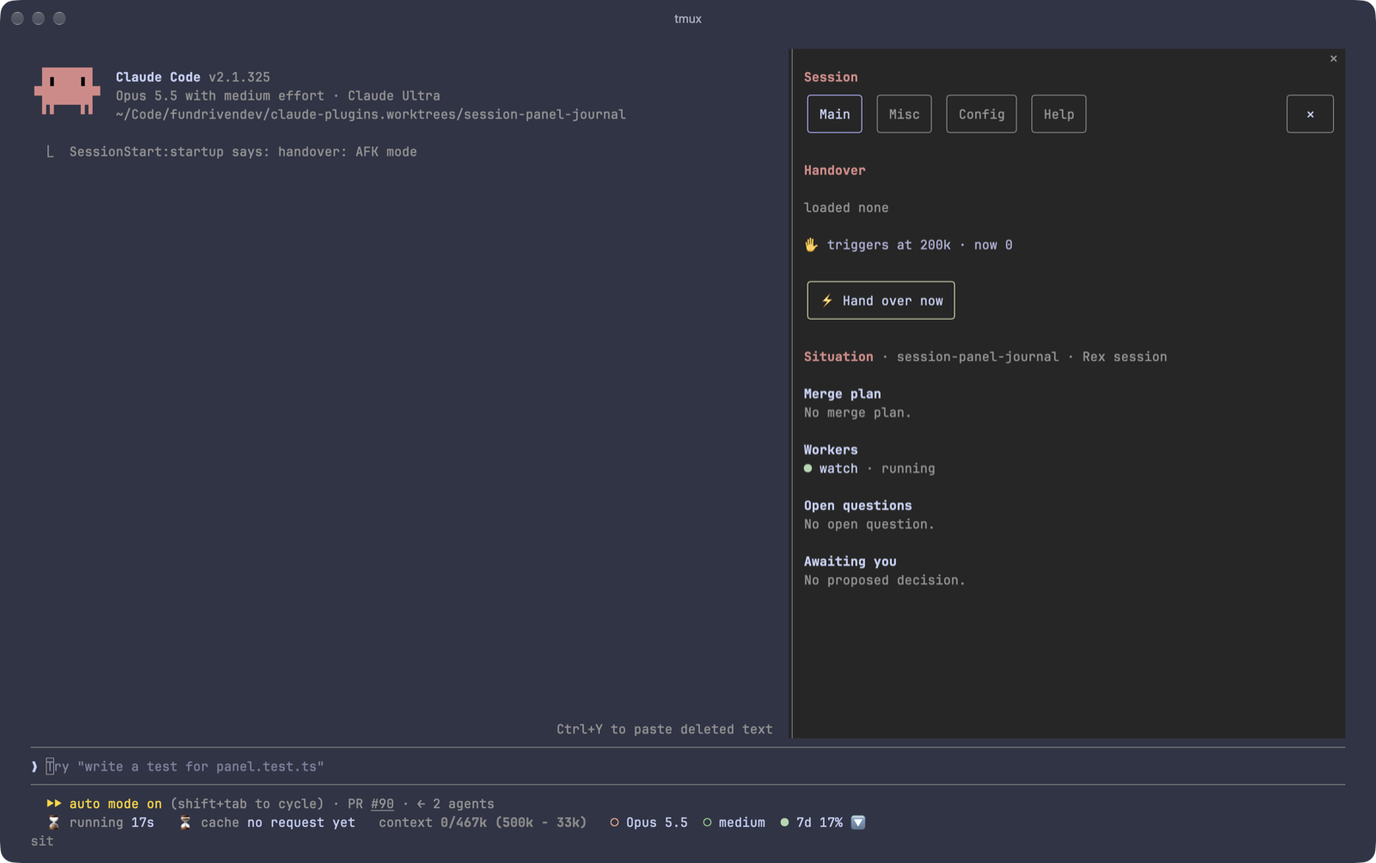
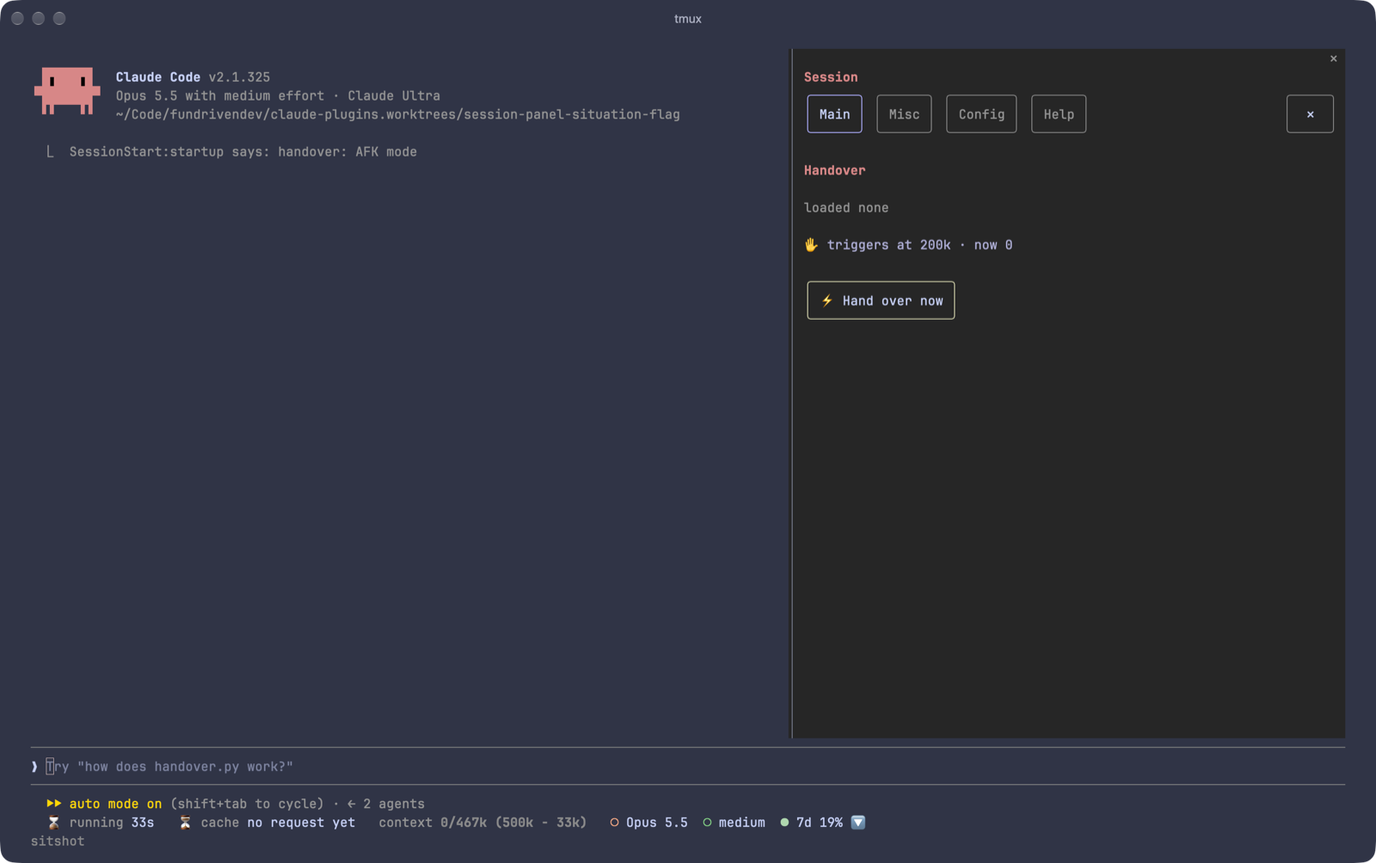
session-mods 0.7.0: Situation is opt-in, and the pane names no terminal (#91)
session-mods 0.7.0: the Situation section on Main becomes opt-in, and
the pane no longer names Rex.

- New boolean `userConfig` option `situation`, default `false`. Off:
Main shows Handover alone, no Situation refresh runs (no notes,
terminal-session or `gh` reads for it), and the Help tab leaves
Situation out. On: the section works as in 0.6.0.
- The Config tab lists the option as in effect (`off (default)` / `on`)
under a new `session-mods plugin` heading.
- The pane's strings use neutral words: `· terminal session`, `no
terminal session labelled …`, `not in a terminal session`, `terminal
sessions unreachable`, the Help rows. The code still calls the `rex` CLI
to read workers.
- README, `docs/main-tab.md`, `docs/top-bar.md` and
`docs/configuration.md` describe Situation as opt-in and how to turn it
on; the screenshot shows Main as it opens by default.
- Tests cover both states.

Open questions: none
Decisions: session-panel-journal D06, D07 (new)

🤖 Generated with [Claude Code](https://claude.com/claude-code)

---------

diff --git a/plugins/session-mods/hooks/register.tsx b/plugins/session-mods/hooks/register.tsx
@@ -433,7 +433,11 @@ async function rexSession($: EngineInterface, id: string): Promise<RexSession | 
 /** The latest refreshSituation call: an older one that finishes after it drops its result. */
 let situationRun = 0
 
+/** The `situation` option: off (its default), the section is neither drawn nor read. Set by `register`. */
+let situationOn = false
+
 async function refreshSituation($: EngineInterface) {
+  if (!situationOn) return
   const run = ++situationRun
   const rexId = await $.env.get('REX_SESSION')
   const ownBlock = await $.env.get('REX_BLOCK')
@@ -460,10 +464,10 @@ async function refreshSituation($: EngineInterface) {
   if (!rex && rexId !== undefined) {
     const all = await $.process.run(['rex', 'ls', '--json'])
     const id = all.exitCode === 0 ? rexSessionLabelled(all.stdout, topic) : null
-    if (all.exitCode !== 0) workersError = 'rex unreachable'
+    if (all.exitCode !== 0) workersError = 'terminal sessions unreachable'
     else if (id) rex = await rexSession($, id)
   }
-  if (rexId === undefined && !rex) workersError = 'not in a Rex session'
+  if (rexId === undefined && !rex) workersError = 'not in a terminal session'
   const shown = rex
   const workers = shown
     ? await Promise.all(
@@ -482,6 +486,7 @@ async function refreshSituation($: EngineInterface) {
 
 /** Reads each merge-plan pull request's state and checks from GitHub. */
 async function refreshSituationPrs($: EngineInterface) {
+  if (!situationOn) return
   const urlsOf = (sit: Situation) => [...new Set(sit.mergePlan?.rows.flatMap(r => r.prs.map(p => p.url)) ?? [])]
   const urls = urlsOf(await read($, situation))
   if (!urls.length) {
@@ -504,6 +509,7 @@ async function refreshSituationPrs($: EngineInterface) {
 
 /** Notes the last notes document a call read or wrote; a new one is read at once while the session has no topic. */
 async function noteNotes($: EngineInterface, tool: string, input: Record<string, unknown>) {
+  if (!situationOn) return
   const named = ['Read', 'Edit', 'MultiEdit', 'Write'].includes(tool) ? input.file_path : tool === 'Bash' ? input.command : null
   const path = typeof named === 'string' ? notesPathsIn(named).at(-1) : undefined
   if (!path || path === (await read($, lastNote))) return
@@ -713,6 +719,7 @@ export async function* stepPanel($: StepArgs[0], e: StepArgs[1], next: StepArgs[
 }
 
 export const register: Register = (on, options) => {
+  situationOn = options.situation === true
   {
 
     on('command.run', { command: 'session-panel' }, async $ => {
@@ -1187,7 +1194,7 @@ export const register: Register = (on, options) => {
             <Box key="sit" flexDirection="column">
               {section('Situation')}
               <Text dimColor wrap="wrap">
-                {sit.readAt === null ? 'Not read yet.' : 'No topic: the Rex session is not labelled by a topic, and no notes document read or written names one.'}
+                {sit.readAt === null ? 'Not read yet.' : "No topic: the terminal session's label names none, and no notes document read or written names one."}
               </Text>
             </Box>
           )
@@ -1226,14 +1233,14 @@ export const register: Register = (on, options) => {
             <Text dimColor wrap="truncate-end"> · {WORKER_LOOK[w.state].word}{w.last ? ` · ${w.last}` : ''}</Text>
           </Box>
         ))
-        const workersEmpty = sit.workersError ?? (sit.workers === null ? `no Rex session labelled ${sit.topic}` : 'no other tab in the topic\'s Rex session')
+        const workersEmpty = sit.workersError ?? (sit.workers === null ? `no terminal session labelled ${sit.topic}` : "no other tab in the topic's terminal session")
         return (
           <Box key="sit" flexDirection="column">
             <Box flexDirection="row">
               {section('Situation')}
               <Text dimColor wrap="truncate-end">
                 {' '}
-                · {sit.topic} · {sit.from === 'rex' ? 'Rex session' : 'notes'}
+                · {sit.topic} · {sit.from === 'rex' ? 'terminal session' : 'notes'}
               </Text>
             </Box>
             {sitBlock('plan', sitHeading('Merge plan', planHint), planRows, plan ? 'The merge plan holds no row.' : 'No merge plan.')}
@@ -1271,7 +1278,7 @@ export const register: Register = (on, options) => {
             {handoverRows}
           </Box>
 
-          {situationSection()}
+          {situationOn && situationSection()}
         </Box>
       )
 
@@ -1516,41 +1523,43 @@ export const register: Register = (on, options) => {
                   : 'The same, but leaves the prompt in the input for you to change before sending; alone when the reply gave no prompt.',
               ),
             )}
-            {helpRow('situation', section('Situation'), "The live state of the session's topic, in every session of it and after a handover: the Rex session's label when a note names it as its topic, else the topic of the last notes document the session read or wrote. Read again every 30 s.")}
-            {helpRow(
-              'sit:plan',
-              <Box flexDirection="column">
-                <Text bold>Merge plan</Text>
+            {situationOn && [
+              helpRow('situation', section('Situation'), "The live state of the session's topic, in every session of it and after a handover: the terminal session's label when a note names it as its topic, else the topic of the last notes document the session read or wrote. Read again every 30 s."),
+              helpRow(
+                'sit:plan',
+                <Box flexDirection="column">
+                  <Text bold>Merge plan</Text>
+                  <Text>
+                    <Text dimColor>2  </Text>🔧 <Text color={PR_COLOR.draft} underline>claude-plugins#90</Text>
+                    <Text color="#e78284">!</Text>
+                    <Text dimColor> worker running</Text>
+                  </Text>
+                </Box>,
+                "The topic's merge plan (its *-merge-plan.md), one row per line: wave, status, pull requests in their live state's colour with ! on a red check (GitHub, every minute), note. Its age turns yellow past an hour.",
+              ),
+              helpRow(
+                'sit:workers',
                 <Text>
-                  <Text dimColor>2  </Text>🔧 <Text color={PR_COLOR.draft} underline>claude-plugins#90</Text>
-                  <Text color="#e78284">!</Text>
-                  <Text dimColor> worker running</Text>
-                </Text>
-              </Box>,
-              "The topic's merge plan (its *-merge-plan.md), one row per line: wave, status, pull requests in their live state's colour with ! on a red check (GitHub, every minute), note. Its age turns yellow past an hour.",
-            )}
-            {helpRow(
-              'sit:workers',
-              <Text>
-                <Text color={WORKER_LOOK.running.color}>{WORKER_LOOK.running.glyph} </Text>
-                review · claude-plugins#90<Text dimColor> · running · Reading the diff</Text>
-              </Text>,
-              "The other tabs of the topic's Rex session: ● running, ◆ waiting for you, ○ idle, ✓ done or ✗ blocked on its AFK line, › a shell; then the last thing it said.",
-            )}
-            {helpRow(
-              'sit:questions',
-              <Text>
-                <Text color="#e5c890">Q1</Text> Lock mode in mise.toml?
-              </Text>,
-              "The topic's open-questions plans still todo or doing, one line per question not yet decided.",
-            )}
-            {helpRow(
-              'sit:proposed',
-              <Text>
-                <Text color="#ca9ee6">D02</Text> Pin the lock in CI
-              </Text>,
-              "Awaiting you: the topic's decision register's entries still proposed, with a link to the register.",
-            )}
+                  <Text color={WORKER_LOOK.running.color}>{WORKER_LOOK.running.glyph} </Text>
+                  review · claude-plugins#90<Text dimColor> · running · Reading the diff</Text>
+                </Text>,
+                "The other tabs of the topic's terminal session: ● running, ◆ waiting for you, ○ idle, ✓ done or ✗ blocked on its AFK line, › a shell; then the last thing it said.",
+              ),
+              helpRow(
+                'sit:questions',
+                <Text>
+                  <Text color="#e5c890">Q1</Text> Lock mode in mise.toml?
+                </Text>,
+                "The topic's open-questions plans still todo or doing, one line per question not yet decided.",
+              ),
+              helpRow(
+                'sit:proposed',
+                <Text>
+                  <Text color="#ca9ee6">D02</Text> Pin the lock in CI
+                </Text>,
+                "Awaiting you: the topic's decision register's entries still proposed, with a link to the register.",
+              ),
+            ]}
           </Box>
 
           {section('Misc')}
@@ -1756,6 +1765,10 @@ export const register: Register = (on, options) => {
           {thresholdRow('suggest', 'suggest_tokens', ho?.thresholds?.suggest, ho?.pending?.suggest, 'Context size from which a handover is suggested at the next boundary.')}
           {thresholdRow('warn', 'thresholds.warn_at_tokens', ho?.thresholds?.warnAt, undefined, 'Context size at which the Handover line turns yellow, computed by the handover plugin.')}
           {thresholdRow('trigger', 'trigger_tokens', ho?.thresholds?.trigger, ho?.pending?.trigger, 'Context size at which the session winds down and hands over; 0 turns it off.')}
+
+          {section('session-mods plugin')}
+          {whereSet('Its options: pluginConfigs["session-mods@fundrivendev"].options in settings.json, or /config.')}
+          {configRow('situation', 'situation', situationOn ? 'on' : null, 'off', "Shows the Situation section on Main, read from the topic's notes, its terminal session's tabs and GitHub.")}
         </Box>
       )
 

diff --git a/plugins/session-mods/tests/panel.test.ts b/plugins/session-mods/tests/panel.test.ts
@@ -568,11 +568,21 @@ test('the Help tab explains each item beside an example of it, in place of the r
   expect(await ui.find({ text: /Hand over now/ })).toBeDefined()
   expect(await ui.find({ text: /● pushed, ○ local only/ })).toBeDefined()
   expect(await ui.find({ text: /Last prompt/ })).toBeDefined()
-  for (const title of [/^Documents$/, /^Handover$/, /^Situation$/]) expect(await ui.find({ text: title })).toBeDefined()
-  expect(await ui.find({ text: /other tabs of the topic's Rex session/ })).toBeDefined()
+  for (const title of [/^Documents$/, /^Handover$/]) expect(await ui.find({ text: title })).toBeDefined()
+  for (const gone of [/^Situation$/, /^Merge plan$/, /other tabs of the topic/]) expect(await ui.find({ text: gone })).toBeUndefined()
   expect(await ui.find({ key: 'prompts' })).toBeUndefined()
   await ui.press({ key: 'tab:misc' })
   expect((await ui.find({ key: 'prompts' }))?.props.label).toBe('(no previous prompt)')
+  await ui.unmount()
+})
+
+test('with the situation option on, the Help tab explains Situation too', { options: { situation: true } }, async ($, on) => {
+  mock.clock(on, { now: 1_000 })
+  on('session.usage', () => ({ value: { startedAt: 0, context: {} as never, rateLimits: [] } }))
+  const ui = await $.ui.mount({ plugin: 'session-mods', surface: 'terminal', ...PANE })
+  await ui.press({ key: 'tab:help' })
+  expect(await ui.find({ text: /^Situation$/ })).toBeDefined()
+  expect(await ui.find({ text: /other tabs of the topic's terminal session/ })).toBeDefined()
   await ui.unmount()
 })
 
@@ -609,7 +619,28 @@ describe('Situation', () => {
     on('process.run', ($, e) => (run(e.argv) ?? ok('')) as never)
   }
 
-  test('Main shows Handover then the Situation of the Rex session\'s topic, filled; the rest sits on Misc', async ($, on) => {
+  const ON = { options: { situation: true } }
+
+  test('off by default, Main shows Handover alone, nothing is read for Situation, and Config lists the option off', async ($, on) => {
+    const ran: string[] = []
+    start(on, { REX_SESSION: 'session:1', REX_BLOCK: 'block:me' }, argv => {
+      ran.push(argv.join(' '))
+      return undefined
+    })
+    await $.session.start({ cwd: '/repo', surface: 'terminal', isInteractive: true })
+    await $.tool.call({ tool: 'Read', file_path: '/Users/me/Notes/claude/plans/26-11-16-spj-brief.md' } as never)
+    await settle()
+    expect(ran.filter(c => /^(rex|gh) /.test(c) || c.includes('decisions-register') || c.includes('head -20 "$1"'))).toEqual([])
+    const ui = await $.ui.mount({ plugin: 'session-mods', surface: 'terminal', ...PANE })
+    expect(await ui.find({ text: /^Handover$/ })).toBeDefined()
+    for (const gone of [/^Situation$/, /^No topic: /, /^Not read yet\.$/]) expect(await ui.find({ text: gone })).toBeUndefined()
+    await ui.press({ key: 'tab:config' })
+    expect(await ui.find({ text: /^situation$/ })).toBeDefined()
+    expect(await ui.find({ text: /^off \(default\)$/ })).toBeDefined()
+    await ui.unmount()
+  })
+
+  test('Main shows Handover then the Situation of the terminal session\'s topic, filled; the rest sits on Misc', ON, async ($, on) => {
     start(on, { REX_SESSION: 'session:1', REX_BLOCK: 'block:me' }, argv => {
       if (argv[0] === 'rex' && argv[1] === 'window') return ok(REX)
       if (argv[0] === 'rex' && argv[1] === 'capture') return argv.includes('block:w') ? ok('⏺ Reading the diff.\n❯ \n  esc to interrupt\n') : fail
@@ -622,7 +653,7 @@ describe('Situation', () => {
     const ui = await $.ui.mount({ plugin: 'session-mods', surface: 'terminal', ...PANE })
     expect(await ui.find({ text: /^Handover$/ })).toBeDefined()
     expect(await ui.find({ text: /^Situation$/ })).toBeDefined()
-    expect(await ui.find({ text: /spj · Rex session/ })).toBeDefined()
+    expect(await ui.find({ text: /spj · terminal session/ })).toBeDefined()
     const pr = await ui.find({ type: 'Link', text: /claude-plugins#90/ })
     expect(pr?.props.href).toBe('https://github.com/FunDrivenDev/claude-plugins/pull/90')
     expect(JSON.stringify(await ui.find({ type: 'Text', text: /^claude-plugins#90$/ }))).toContain('#babbf1')
@@ -637,10 +668,12 @@ describe('Situation', () => {
     await ui.press({ key: 'tab:misc' })
     for (const moved of [/no issue/, /no repository yet/, /^Documents$/, /^Last prompt/, /^Steps/, /^Git diff$/]) expect(await ui.find({ text: moved })).toBeDefined()
     expect(await ui.find({ text: /^Situation$/ })).toBeUndefined()
+    await ui.press({ key: 'tab:config' })
+    expect(await ui.find({ text: /^on$/ })).toBeDefined()
     await ui.unmount()
   })
 
-  test('without a topic the section says so', async ($, on) => {
+  test('without a topic the section says so', ON, async ($, on) => {
     start(on, {}, () => undefined)
     await $.session.start({ cwd: '/repo', surface: 'terminal', isInteractive: true })
     await settle()
@@ -649,7 +682,7 @@ describe('Situation', () => {
     await ui.unmount()
   })
 
-  test('a Rex label no note names gives no topic, until the session reads a note that names one; Rex and gh down show as such', async ($, on) => {
+  test('a terminal session label no note names gives no topic, until the session reads a note that names one; its CLI and gh down show as such', ON, async ($, on) => {
     start(on, { REX_SESSION: 'session:1', REX_BLOCK: 'block:me' }, argv => {
       if (argv[0] === 'rex' && argv[1] === 'window') return ok(REX.replace('"label":"spj"', '"label":"Dispatch"'))
       if (argv[0] === 'rex' && argv[1] === 'ls') return fail
@@ -669,13 +702,13 @@ describe('Situation', () => {
     ui = await $.ui.mount({ plugin: 'session-mods', surface: 'terminal', ...PANE })
     expect(await ui.find({ text: /spj · notes/ })).toBeDefined()
     expect(await ui.find({ text: /gh unreachable/ })).toBeDefined()
-    expect(await ui.find({ text: /^rex unreachable$/ })).toBeDefined()
+    expect(await ui.find({ text: /^terminal sessions unreachable$/ })).toBeDefined()
     expect(await ui.find({ text: /^No open question\.$/ })).toBeDefined()
     expect(await ui.find({ text: /^No proposed decision\.$/ })).toBeDefined()
     await ui.unmount()
   })
 
-  test('outside Rex, a topic from the notes has no workers and no merge plan to show', async ($, on) => {
+  test('outside a terminal session, a topic from the notes has no workers and no merge plan to show', ON, async ($, on) => {
     start(on, {}, argv => {
       if (argv[0] === 'sh' && argv[2]?.includes('decisions-register')) return ok('\x1e/n/plans/26-11-16-spj-brief.md\t1000\n---\ntopic: spj\n---\n')
       if (argv[0] === 'sh' && argv[2]?.includes('head -20 "$1"')) return ok('---\ntopic: spj\n---\n')
@@ -687,7 +720,7 @@ describe('Situation', () => {
     const ui = await $.ui.mount({ plugin: 'session-mods', surface: 'terminal', ...PANE })
     expect(await ui.find({ text: /spj · notes/ })).toBeDefined()
     expect(await ui.find({ text: /^No merge plan\.$/ })).toBeDefined()
-    expect(await ui.find({ text: /^not in a Rex session$/ })).toBeDefined()
+    expect(await ui.find({ text: /^not in a terminal session$/ })).toBeDefined()
     await ui.unmount()
   })
 })

diff --git a/plugins/session-mods/docs/main-tab.md b/plugins/session-mods/docs/main-tab.md
@@ -1,6 +1,6 @@
 # Main tab
 
-The topic at a glance: Handover, then Situation. [Back to the README](../README.md)
+The topic at a glance: Handover, then Situation when the `situation` option is on. [Back to the README](../README.md)
 
 ## Handover
 
@@ -21,10 +21,12 @@ When the handover does not load within its 3-minute wait, the message stays in t
 
 ## Situation
 
-The live state of the session's topic, the same in every session of it and after a handover, read again every 30 seconds without a prompt. Its title line names the topic and where it came from (`· session-panel-journal · Rex session`).
+An opt-in section, off by default: set the `situation` option to turn it on ([Configuration](configuration.md#situation)). Off, Main shows Handover alone, and the Help tab leaves Situation out.
+
+The live state of the session's topic, the same in every session of it and after a handover, read again every 30 seconds without a prompt. Its title line names the topic and where it came from (`· session-panel-journal · terminal session`).
 
 ```
-Situation · session-panel-journal · Rex session
+Situation · session-panel-journal · terminal session
 
 Merge plan · file · changed 12 min ago
 1  ✅ claude-plugins#89 base merged
@@ -43,16 +45,16 @@ D02 Pin the lock in CI
 
 The topic is a notes `topic:` slug (the front matter of the plans and registers in `~/Notes/claude`):
 
-1. the Rex session's label, when a plan or a register names it as its topic (a dispatched or watched session is labelled by its topic);
+1. the terminal session's label, when a plan or a register names it as its topic (a dispatched or watched session is labelled by its topic);
 2. else the `topic:` of the last notes document the session read or wrote (a brief, a plan, a register, a handover), read again as soon as it changes.
 
-A handover chain keeps it: the next session runs in the same Rex tab, or reads the handover and the brief. Without a topic, the section says so in one dim line.
+A handover chain keeps it: the next session runs in the same terminal tab, or reads the handover and the brief. Without a topic, the section says so in one dim line.
 
 Four blocks follow, each with one dim line when it has nothing to show:
 
 - **Merge plan**: the topic's latest `*-merge-plan.md` in `~/Notes/claude/plans`, one row per line of its `| Wave | PR | Status | Note |` table: wave, status, each pull request linked in its live state's colour (as in [Git](misc-tab.md#git)) with `!` on a red check, then the note. The heading links the file and gives its age, yellow past an hour. Pull requests are read with `gh` every minute; `gh unreachable` replaces their colours when none answers.
-- **Workers**: the other tabs of the Rex session labelled by the topic (this one, or another found with `rex ls`), each with its state read from its screen (`rex capture`): `●` running, `◆` waiting for you, `○` idle, `✓` done or `✗` blocked on its `AFK` line, `›` a shell; then the last thing it said. Without Rex it reads `not in a Rex session` or `rex unreachable`.
+- **Workers**: the other tabs of the terminal session labelled by the topic (this one, or another the terminal lists), each with its state read from its screen: `●` running, `◆` waiting for you, `○` idle, `✓` done or `✗` blocked on its `AFK` line, `›` a shell; then the last thing it said. Outside a terminal whose sessions the pane can read, it reads `not in a terminal session`, and `terminal sessions unreachable` when the terminal does not answer.
 - **Open questions**: the `## Qn — title` headings of the topic's `*-open-questions.md` plans still `todo` or `doing`, without those a `**Decided**` line answers.
 - **Awaiting you**: the entries of the topic's decision register (`~/Notes/claude/decisions-register`) still `proposed`, linked to the register.
 
-The panel computes it all live from the notes, `gh` and `rex`: no skill or worker writes a state file for it.
+The panel computes it all live from the notes, `gh` and the terminal: no skill or worker writes a state file for it.

diff --git a/plugins/session-mods/docs/configuration.md b/plugins/session-mods/docs/configuration.md
@@ -10,11 +10,27 @@ It is a mod: a plugin of function hooks, drawn by the engine (no shell script, n
 
 ## Settings
 
-The bar's one option, `cacheTtl`, is described in [Bar](bar.md#configuration). The pane has no option of its own and writes no state file. It reads Claude Code's `plansDirectory` and the handover plugin's `handover_dir` and token thresholds. The **Config** tab lists each one as in effect, with what it does, and its default for the first two.
+The bar's one option, `cacheTtl`, is described in [Bar](bar.md#configuration). The pane's one option is `situation`, below. The pane writes no state file. It reads Claude Code's `plansDirectory` and the handover plugin's `handover_dir` and token thresholds. The **Config** tab lists each one as in effect, `situation` included, with what it does, and its default where it has one.
+
+### Situation
+
+`situation` (boolean, default `false`) shows the [Situation](main-tab.md#situation) section on Main. It rests on conventions of its own: notes in `~/Notes/claude` sharing a `topic:` slug, and a terminal whose sessions are labelled by that topic. Off, Main shows Handover alone, and nothing is read for it: no notes, no terminal sessions, no `gh` call.
+
+To turn it on, set it in Claude Code's user settings (`~/.claude/settings.json`, yours alone), or through `/config`:
+
+```json
+{
+  "pluginConfigs": {
+    "session-mods@fundrivendev": { "options": { "situation": true } }
+  }
+}
+```
+
+It applies from the next session.
 
 ## Limits
 
 - Steps and sub-agents are recorded from the moment the plugin loads; the first prompt is read back from the transcript.
 - The handover thresholds are those this session runs with, as the handover plugin recorded them at session start (handover 0.20.0 and later), the point where its line turns yellow included. The pane gets them, with the rest of the Handover row, from the installed handover plugin's `handover.py state --session <session_id> --json` (handover 0.29.0 and later; with an older one the row says the state is unknown). The pane has no default of its own: when the thresholds are unknown, the Handover row and the Config tab say why. A `suggest_tokens` or `trigger_tokens` resolving differently now shows beneath it in the Config tab, as applying from the next session.
 - `handover_dir` comes from the handover plugin's options in `settings.json`, `pluginConfigs["handover@fundrivendev"].options`.
-- Situation reads the notes in `~/Notes/claude` (`plans/` and `decisions-register/`, by their `topic:` front matter), a fixed folder with no option. Its workers need the `rex` CLI and a session started in Rex (`REX_SESSION`); its pull requests' states need `gh` signed in. Each missing source shows on its block, the others still render.
+- Situation, when on, reads the notes in `~/Notes/claude` (`plans/` and `decisions-register/`, by their `topic:` front matter), a fixed folder with no option. Its workers need a terminal whose sessions the pane can read; its pull requests' states need `gh` signed in. Each missing source shows on its block, the others still render.

diff --git a/plugins/session-mods/README.md b/plugins/session-mods/README.md
@@ -17,9 +17,9 @@ The pane opens at session start when the terminal is at least 144 columns wide; 
 
 It gathers the session's handover, its topic's live state, and its issue, pull requests, documents and git changes in one place.
 
-- **Title and tabs**: the session's topic as a title (also sent to `/rename`), and four tabs: Main (Handover and Situation), Misc (the rest), Config and Help.
+- **Title and tabs**: the session's topic as a title (also sent to `/rename`), and four tabs: Main (Handover, and Situation when turned on), Misc (the rest), Config and Help.
 - **Handover**: the `handover` plugin's status, the handover loaded and written, and buttons to hand over now or start the next session.
-- **Situation**: the topic's merge plan with its pull requests' live state, its workers in Rex, its open questions and the decisions awaiting you, read live from the notes, `gh` and `rex`.
+- **Situation** (opt-in, off by default): the topic's merge plan with its pull requests' live state, its workers in the terminal session's other tabs, its open questions and the decisions awaiting you, read live from the notes and `gh`.
 - **Issue and Git**: the tracker issue the session is about, then each repository it touched with its pull request and worktree.
 - **Documents**: the artifacts, handovers, plans and notes the session wrote, linked.
 - **Last prompt**: your last prompt, with the whole session's prompt history one click away.
@@ -37,13 +37,14 @@ How long the session has run, when the prompt cache expires, how full the contex
 | Option | Values | Default | What it sets |
 |---|---|---|---|
 | `cacheTtl` | `1h`, `5m` | `1h` | The prompt-cache lifetime the bar's countdown starts from; a model switch reports the real one. |
+| `situation` | `true`, `false` | `false` | Shows the Situation section on Main. Off, nothing is read for it. |
 
-The pane has no option of its own: it reads Claude Code's `plansDirectory`, the handover plugin's settings and, for Situation, the notes in `~/Notes/claude`. See [Configuration](docs/configuration.md).
+Besides `situation`, the pane reads Claude Code's `plansDirectory` and the handover plugin's settings. See [Configuration](docs/configuration.md), which also says how to turn Situation on.
 
 ## Documentation
 
 - [Top bar](docs/top-bar.md): the pane's title, tabs and colours
-- [Main tab](docs/main-tab.md): Handover and Situation
+- [Main tab](docs/main-tab.md): Handover, and the opt-in Situation
 - [Misc tab](docs/misc-tab.md): Issue, Git, Documents, Last prompt, Steps, Sub-agents, Git diff and Git History
 - [Bar](docs/bar.md): the bar beneath the prompt, item by item
 - [Configuration](docs/configuration.md): opening the pane, settings and limits

diff --git a/plugins/session-mods/docs/top-bar.md b/plugins/session-mods/docs/top-bar.md
@@ -16,9 +16,9 @@ The session's title, its overall topic in a few words, sits on a line of its own
 
 Beneath the title, the tabs on the left, and a close mark on the right.
 
-- **Main** shows the topic at a glance: Handover, then Situation. See [Main tab](main-tab.md).
+- **Main** shows the topic at a glance: Handover, then Situation when the `situation` option is on. See [Main tab](main-tab.md).
 - **Misc** shows the issue, the repositories and pull requests, the documents and the last prompt, then the steps, the sub-agents and the git diff. See [Misc tab](misc-tab.md).
-- **Config** lists each value the pane reads (Claude Code's `plansDirectory`, the handover plugin's `handover_dir` and token thresholds), as in effect, with what it does and its default.
+- **Config** lists each value the pane reads (Claude Code's `plansDirectory`, the handover plugin's `handover_dir` and token thresholds, and its own `situation` option), as in effect, with what it does and its default.
 - **Help** explains each item of the pane, its colours and states, one per line: an example as the pane draws it, then greyed what it shows or does (the title and the tabs, self-evident, are left out).
 
 `✕`, framed so it is easy to hit, closes the pane; `/session-panel` reopens it on Main.
